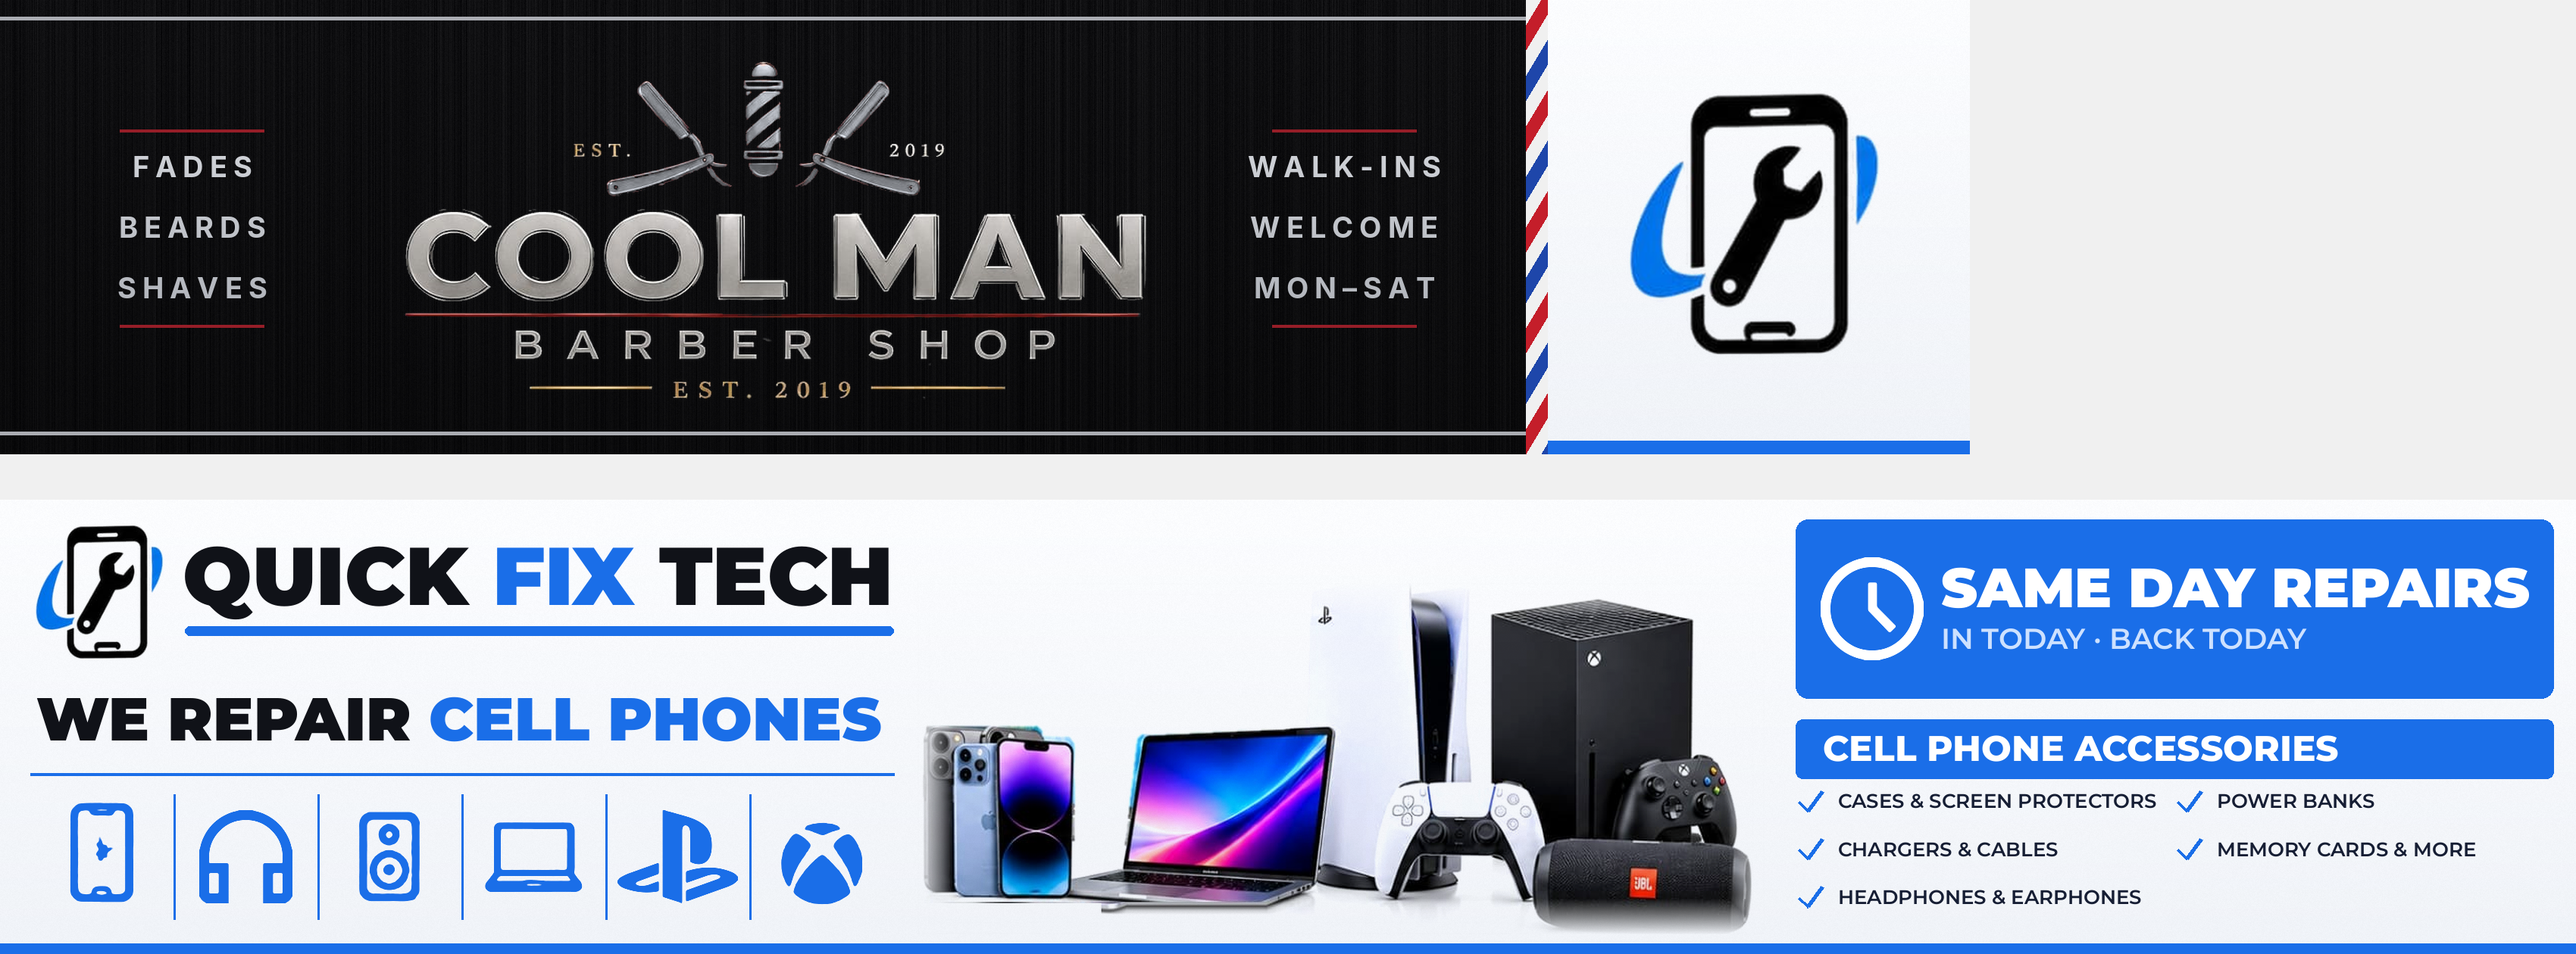
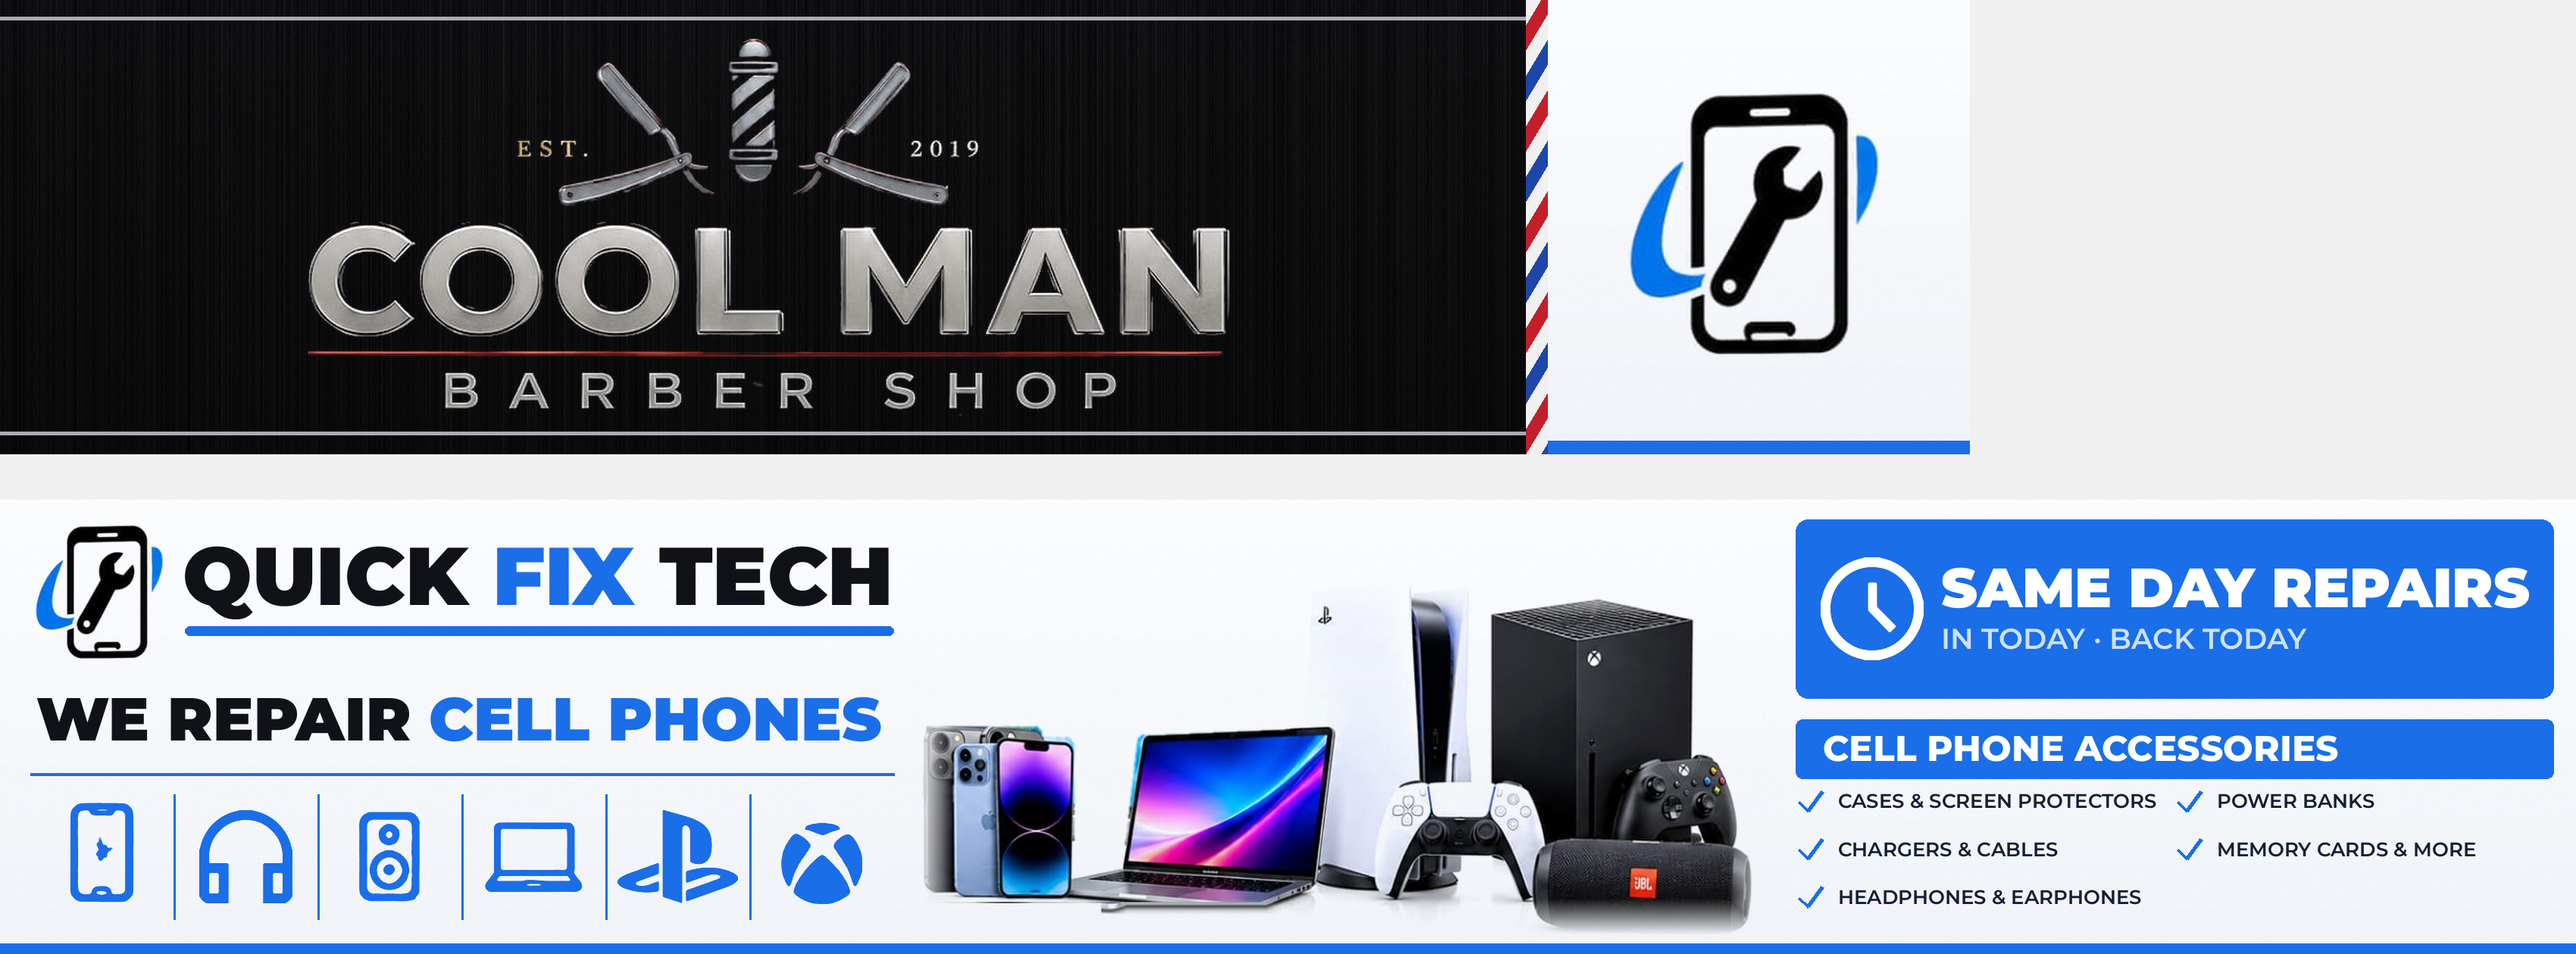
Cool Man sign: drop bottom EST. 2019 row and all side text
Claude-Session: https://claude.ai/code/session_013KRwQLAxoZ4CUmAfzsxCfh

diff --git a/signage-concepts/source/signs_street.py b/signage-concepts/source/signs_street.py
@@ -89,11 +89,9 @@ def left_face():
     for y in (24, LH-28): d.line([(0, y), (SPLIT, y)], fill=(170, 172, 178), width=5)
     d.rectangle((SPLIT, LH-18, LW, LH), fill=QBLUE)
     # barber
-    logo = scale_h(CM, 470); paste_c(s, logo, (SPLIT/2, LH/2))
-    f = font(INTER_B, 38); side = (SPLIT - logo.width)/4
-    for x, lines in ((side, ["FADES", "BEARDS", "SHAVES"]), (SPLIT-side, ["WALK-INS", "WELCOME", "MON–SAT"])):
-        for i, t in enumerate(lines): s.alpha_composite(silver_text(s.size, t, f, (x, 220+i*80)))
-        for y in (172, 430): d.line([(x-95, y), (x+95, y)], fill=(150, 30, 40), width=4)
+    # Cool Man logo without the bottom "EST. 2019" row and its gold lines; no side text
+    cm = CM.crop((0, 0, CM.width, 344)); cm = cm.crop(cm.getbbox())
+    logo = scale_fit(cm, SPLIT - 260, 500); paste_c(s, logo, (SPLIT/2, LH/2))
     # corner slot: small repair logo only
     cw = LW - SPLIT; cx = SPLIT + cw/2
     paste_c(s, scale_fit(QF_ICON, cw*0.62, LH*0.62), (cx, LH/2 - 6))
